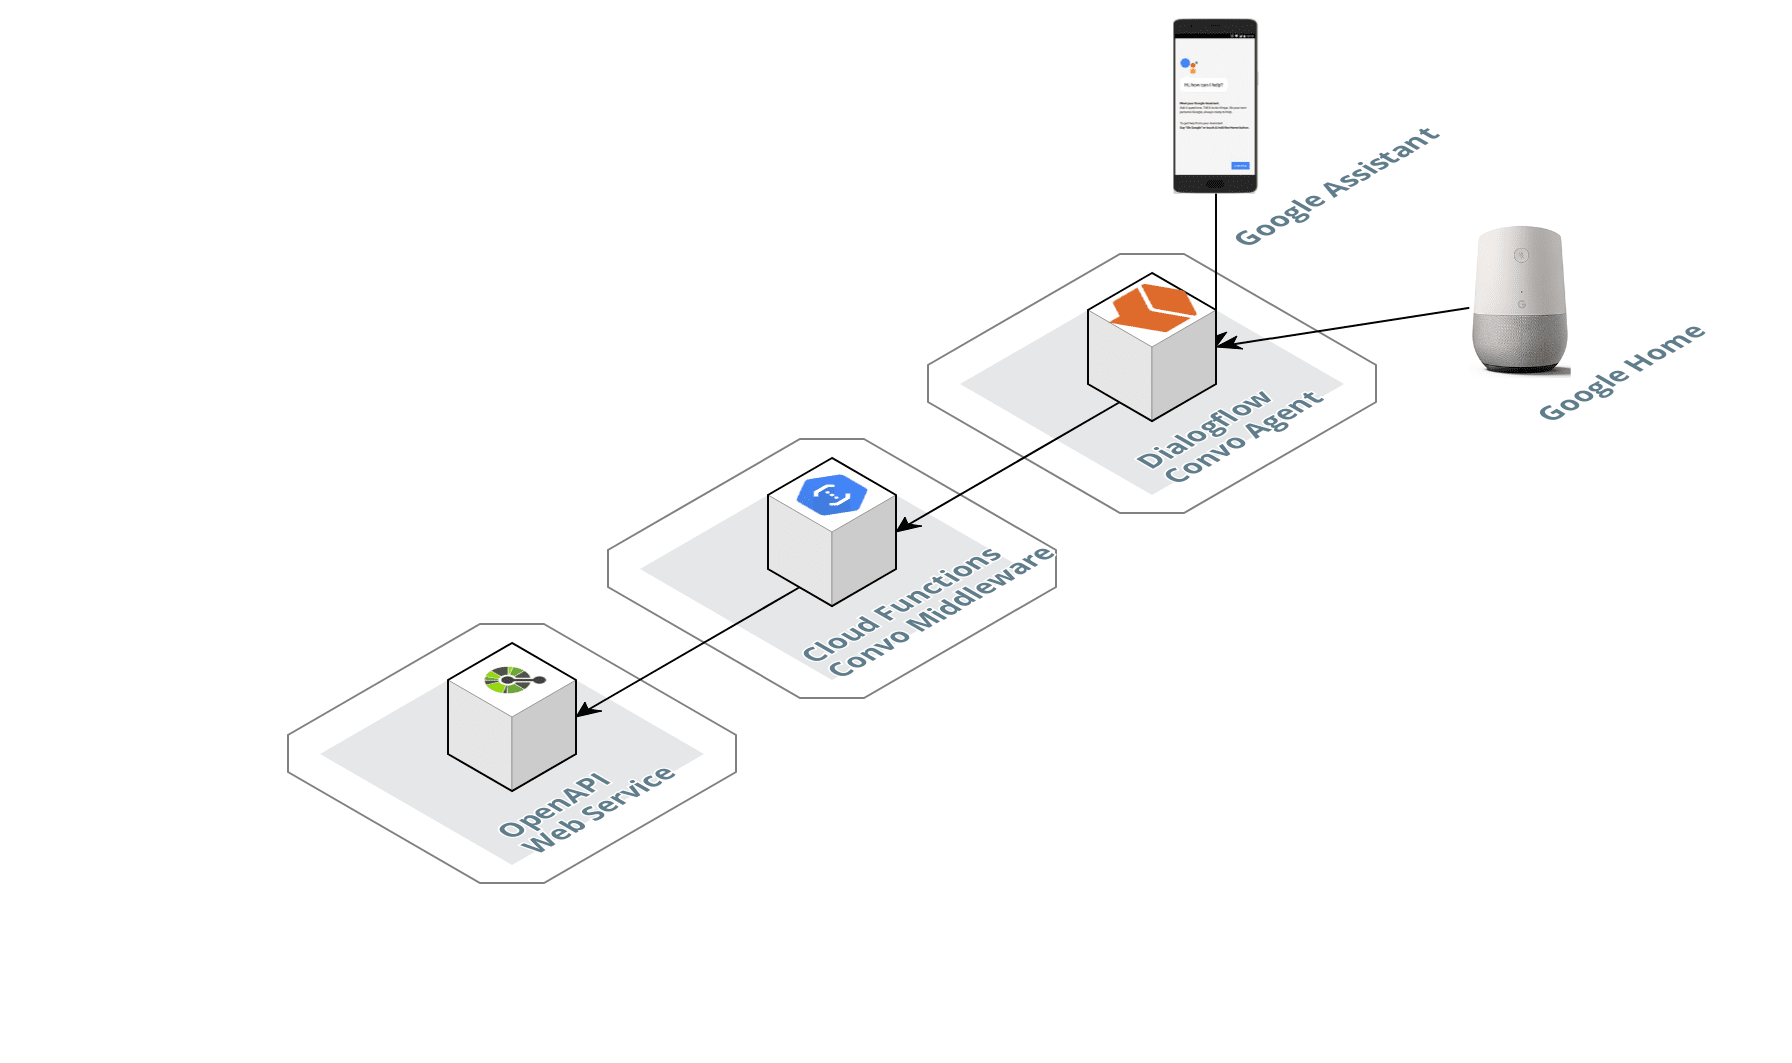
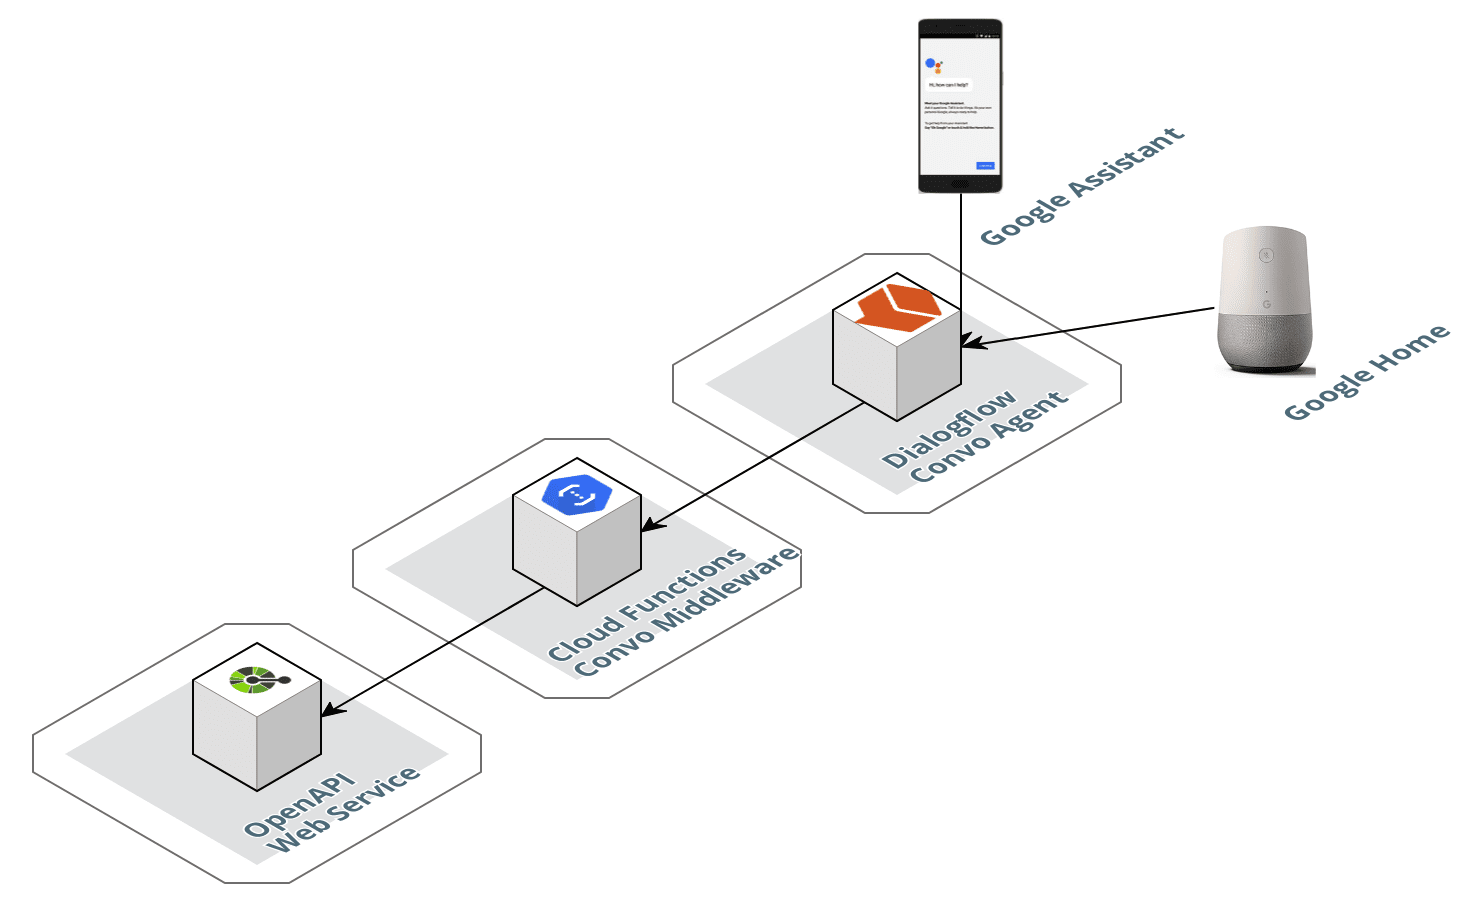
Add headings to each architecture. Crop extra whitespaces from architecture images.

diff --git a/README.md b/README.md
@@ -12,7 +12,7 @@ Architectures
 
 There are three types of Convo application architectures:
 
-1. Static Facts
+### A. Static Facts
 
 Convo Static Facts application consists of only a Dialogflow agent where its knowledge comprises of static facts within the agent itself. 
 
@@ -20,7 +20,7 @@ Convo Static Facts application consists of only a Dialogflow agent where its kno
 
 Have a look at [Convo Thomas](http://github.com/cliffano/convo-thomas) for an example of Convo Static Facts application.
 
-2. Freestyle Back-End
+### B. Freestyle Back-End
 
 Convo Freestyle Back-End application consists of a Dialogflow agent and a Freestyle CloudFunctions middleware where its knowledge is sourced from the business logic implemented within the middleware.
 
@@ -28,7 +28,7 @@ Convo Freestyle Back-End application consists of a Dialogflow agent and a Freest
 
 Have a look at [Convo Hacker News](http://github.com/cliffano/convo-hacker-news) for an example of Convo Freestyle Back-End application, along with [Convo Hacker News Helper](http://github.com/cliffano/convo-hacker-news-helper) which provides the freestyle back-end implementation.
 
-3. OpenAPI Back-End
+### C. OpenAPI Back-End
 
 Convo Freestyle Back-End application consists of a Dialogflow agent and an OpenAPI CloudFunctions middleware where its knowledge is sourced from an external [Open API](https://www.openapis.org/) service.
 
